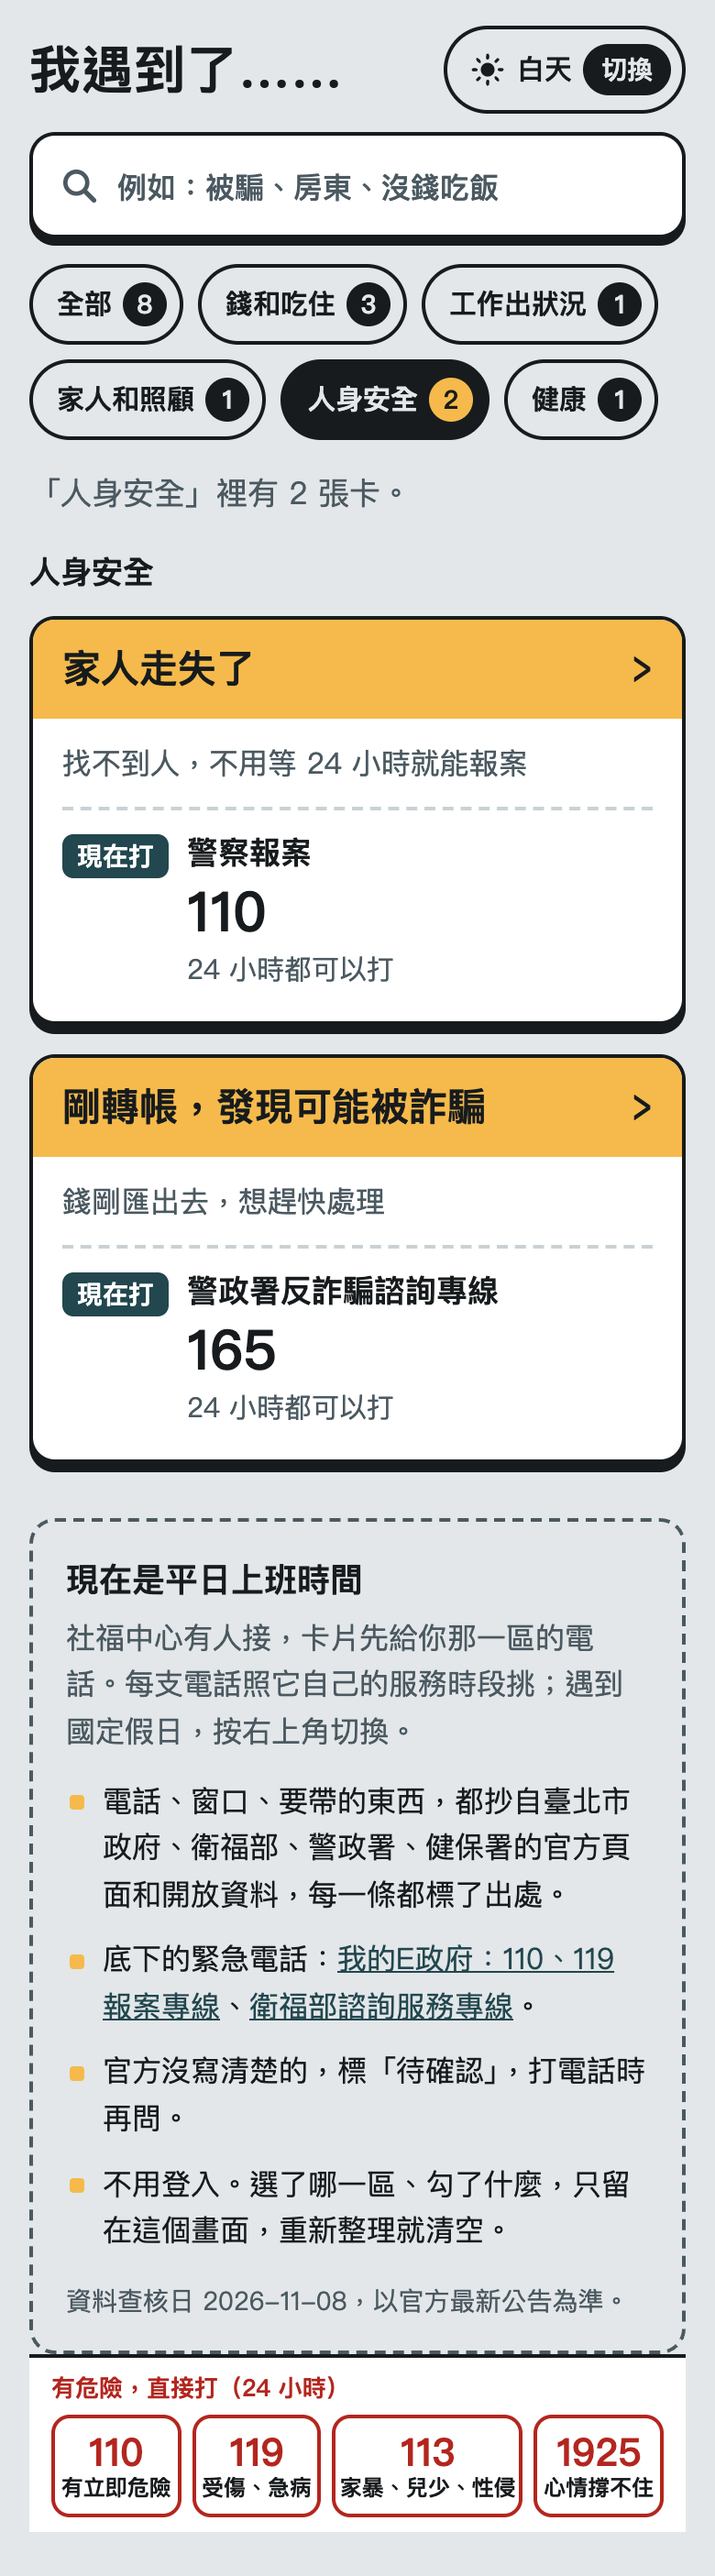
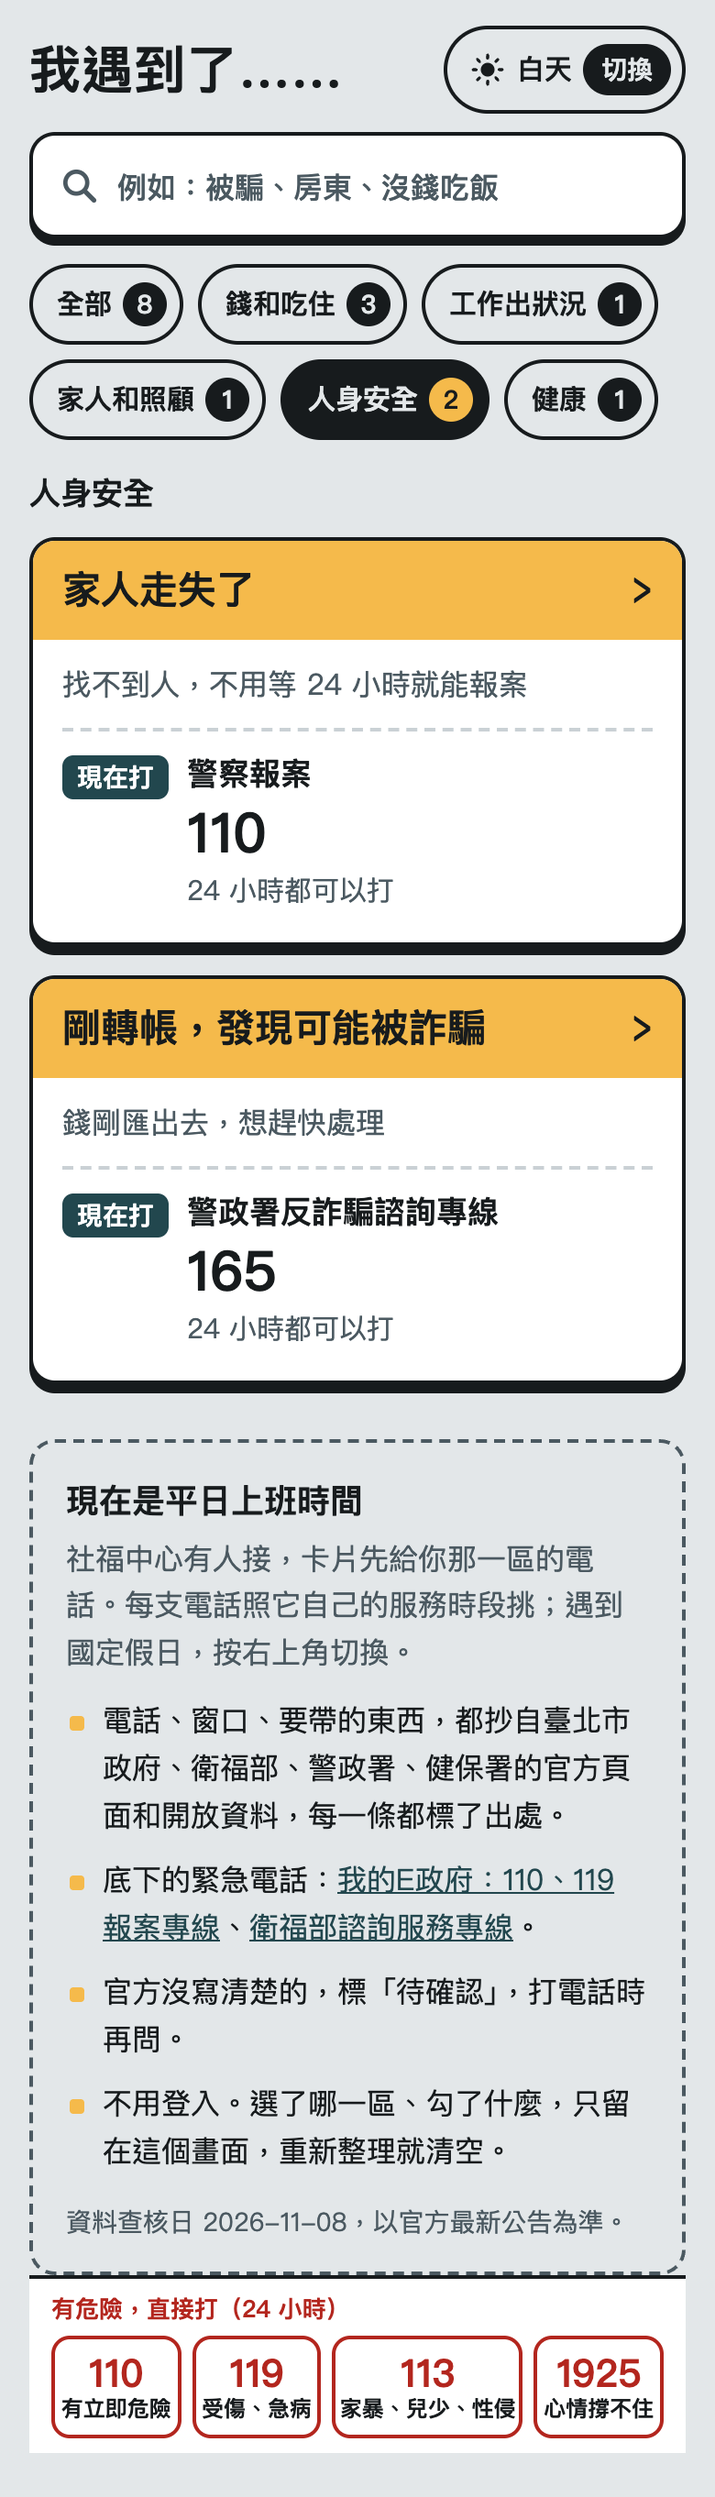
fix(situation): 結果張數只給螢幕閱讀器，晚上改用一套深色卡面 token
- 畫面上不再寫「有 N 張卡符合…」，改放常駐的 sr-only aria-live 區；分類籤的數字保留
- 晚上：卡面深灰藍、黃色卡頭調暗成琥珀、撥號鍵淺藍綠配深字，搜尋框、分類籤、
  搜不到卡、警示框、情境卡、頁尾、緊急列都走同一套 token，沒有純白表面
- 新增 situation-night 測試，從 styles.css 算晚上每組文字對比（全部 ≥ 4.5:1）
- 中文組字時 Enter／Esc 不再觸發收鍵盤與清空（isComposing／keyCode 229）
- 急難救助關鍵字補「繳不起」「付不出」「付不起」
- 重拍晚上版截圖與白天搜尋截圖；白天首頁與原圖逐位元相同

Changed region(s): [[0.0308, 0.0, 0.9846, 0.9985], [0.9538, 0.5929, 0.9846, 0.7177], [0.9538, 0.8425, 0.9846, 0.9049]]

diff --git a/docs/prototypes/situation-entry/styles.css b/docs/prototypes/situation-entry/styles.css
@@ -1,5 +1,6 @@
 /* 行動卡（設計方向 B）: each situation is a physical-feeling card — safety-yellow band, huge number,
- * perforated parts. Night turns the desk dark and the band teal, so the period reads at a glance.
+ * perforated parts. Night is the same deck under a desk lamp: dark slate card stock on a darker desk,
+ * the yellow band dimmed to amber, the call button lit in light teal. No surface is pure white at night.
  * Base tokens from TownPass tp_colors.dart (grayscale / primary / secondary); night desk and urgent red are derived. */
 :root {
   --desk: #e3e7e9;          /* grayscale100 */
@@ -24,17 +25,62 @@
   --sos-bg: #ffffff;
   --closed: #8a5a12;        /* "不在服務時間" text on tint, 6.5:1 */
   --desk-link: #22474e;     /* links sitting on the desk (home footer, card foot) */
+  --on-go: #ffffff;         /* text on --go and --tick fills */
+  --urgent-text: #b3261e;   /* urgent red used as text or outline */
+  --pending-ink: #6b4a14;
+  --focus: #5ab4c5;
+  /* category chips */
+  --cat-bg: transparent;
+  --cat-edge: var(--on-desk);
+  --cat-ink: var(--on-desk);
+  --cat-count-bg: var(--on-desk);
+  --cat-count-ink: var(--desk);
+  --cat-on-bg: var(--on-desk);
+  --cat-on-ink: var(--desk);
+  --cat-on-count-bg: var(--band);
+  --cat-on-count-ink: var(--band-ink);
+  --cat-empty-ink: var(--on-desk-muted);
+  --cat-empty-style: dashed;
 }
+/* Night tokens. Contrast (WCAG): ink on paper 11.3:1, muted on paper 7.1:1, muted on tint 5.7:1,
+ * on-go on go 10.6:1, band-ink on band 7.6:1, urgent-text on paper 7.5:1 — checked in tests/situation-night.test.mjs. */
 :root[data-period="night"] {
   --desk: #13262b;
-  --on-desk: #ffffff;
-  --on-desk-muted: #b8c8ce;
+  --on-desk: #eef3f4;
+  --on-desk-muted: #b3c5cb;
+  --paper: #1f363d;         /* card stock: dark slate, a step above the desk */
+  --ink: #eef3f4;
+  --muted: #b3c5cb;
+  --rule: #3f5c64;
+  --tint: #2a454c;
   --edge: #050c0e;
-  --band: #2b6470;
-  --band-ink: #ffffff;
-  --band-sub: #d7eef2;
+  --band: #d6a443;          /* safety yellow under a lamp */
+  --band-ink: #171b1d;
+  --band-sub: #3a2d17;
+  --go: #8fd3de;            /* call button + links on the card */
+  --go-press: #5fa9b5;
+  --on-go: #0b1a1e;
+  --tick: #8fd3de;
+  --blank: #3d3520;
+  --blank-edge: #d6a443;
+  --urgent-soft: #3d2423;
+  --urgent-text: #ffb4ab;
+  --closed: #f2c57c;
+  --pending-ink: #f2d6a2;
   --sos-bg: #0b1a1e;
   --desk-link: #9fdbe6;     /* 10:1 on the night desk */
+  --focus: #6aa8b3;         /* focus ring: 5.9:1 on desk, 4.8:1 on paper, not a glow */
+  --cat-bg: var(--paper);
+  --cat-edge: var(--rule);
+  --cat-ink: var(--ink);
+  --cat-count-bg: var(--tint);
+  --cat-count-ink: var(--ink);
+  --cat-on-bg: var(--band);
+  --cat-on-ink: var(--band-ink);
+  --cat-on-count-bg: var(--band-ink);
+  --cat-on-count-ink: var(--band);
+  --cat-empty-ink: var(--muted);
+  --cat-empty-style: solid;
 }
 
 * { box-sizing: border-box; }
@@ -51,7 +97,11 @@ body {
 .app { max-width: 480px; margin: 0 auto; padding: 8px 16px calc(140px + env(safe-area-inset-bottom)); }
 button { font: inherit; color: inherit; }
 a { color: var(--go); }
-:focus-visible { outline: 3px solid #5ab4c5; outline-offset: 2px; }
+:focus-visible { outline: 3px solid var(--focus); outline-offset: 2px; }
+.sr-only {
+  position: absolute; width: 1px; height: 1px; margin: -1px; padding: 0; overflow: hidden;
+  clip: rect(0 0 0 0); clip-path: inset(50%); white-space: nowrap; border: 0;
+}
 
 /* top bar */
 .top { display: flex; align-items: center; justify-content: space-between; gap: 12px; min-height: 60px; color: var(--on-desk); }
@@ -79,7 +129,7 @@ a { color: var(--go); }
   box-shadow: 0 4px 0 var(--edge); cursor: text;
 }
 .search-field svg { flex: none; color: var(--muted); }
-.search-field:focus-within { outline: 3px solid #5ab4c5; outline-offset: 2px; }
+.search-field:focus-within { outline: 3px solid var(--focus); outline-offset: 2px; }
 .search-field:focus-within svg { color: var(--ink); }
 .search input {
   flex: 1; min-width: 0; height: 54px; padding: 0; border: 0; background: transparent; color: var(--ink);
@@ -99,17 +149,17 @@ a { color: var(--go); }
 .cats { display: flex; flex-wrap: wrap; gap: 8px; margin: 0 0 16px; }
 .cat {
   flex: none; display: inline-flex; align-items: center; gap: 6px; min-height: 44px; padding: 0 7px 0 13px; white-space: nowrap;
-  border: 2px solid var(--on-desk); border-radius: 999px; background: transparent; color: var(--on-desk);
+  border: 2px solid var(--cat-edge); border-radius: 999px; background: var(--cat-bg); color: var(--cat-ink);
   font-size: 15px; font-weight: 700; cursor: pointer;
 }
 .cat-count {
   display: inline-grid; place-items: center; min-width: 24px; height: 24px; padding: 0 6px; border-radius: 999px;
-  background: var(--on-desk); color: var(--desk); font-size: 14px; font-variant-numeric: tabular-nums;
+  background: var(--cat-count-bg); color: var(--cat-count-ink); font-size: 14px; font-variant-numeric: tabular-nums;
 }
-.cat.is-on { background: var(--on-desk); color: var(--desk); }
-.cat.is-on .cat-count { background: var(--band); color: var(--band-ink); }
-.cat.is-empty:not(.is-on) { border-style: dashed; color: var(--on-desk-muted); border-color: var(--on-desk-muted); }
-.cat.is-empty:not(.is-on) .cat-count { background: transparent; color: var(--on-desk-muted); }
+.cat.is-on { background: var(--cat-on-bg); border-color: var(--cat-on-bg); color: var(--cat-on-ink); }
+.cat.is-on .cat-count { background: var(--cat-on-count-bg); color: var(--cat-on-count-ink); }
+.cat.is-empty:not(.is-on) { border-style: var(--cat-empty-style); color: var(--cat-empty-ink); border-color: var(--cat-empty-ink); }
+.cat.is-empty:not(.is-on) .cat-count { background: transparent; color: var(--cat-empty-ink); }
 
 /* home: nothing matched — a next step, not a dead end */
 .nomatch {
@@ -121,7 +171,7 @@ a { color: var(--go); }
 .nomatch-body { margin: 6px 0 0; font-size: 17px; }
 .nomatch .dial { margin-top: 14px; }
 .nomatch-sos {
-  margin: 16px 0 0; padding: 10px 12px; border-left: 4px solid var(--urgent); border-radius: 0 8px 8px 0;
+  margin: 16px 0 0; padding: 10px 12px; border-left: 4px solid var(--urgent-text); border-radius: 0 8px 8px 0;
   background: var(--urgent-soft); font-size: 16px; font-weight: 700;
 }
 .nomatch-more { margin: 14px 0 0; font-size: 16px; color: var(--muted); }
@@ -157,7 +207,7 @@ a { color: var(--go); }
 }
 .mini-label {
   grid-row: span 2; align-self: start; margin-top: 3px; padding: 1px 8px; border-radius: 6px;
-  background: var(--go); color: #fff; font-size: 14px; font-weight: 700;
+  background: var(--go); color: var(--on-go); font-size: 14px; font-weight: 700;
 }
 .mini-who { font-size: 17px; font-weight: 700; }
 .mini-number { font-size: 30px; font-weight: 800; line-height: 1.2; font-variant-numeric: tabular-nums; letter-spacing: 0.01em; }
@@ -168,12 +218,11 @@ a { color: var(--go); }
 .mini-hours.is-closed { color: var(--closed); font-weight: 700; }
 
 /* reserved: urgent cards put an emergency number first (no content yet) */
-.group.is-urgent .group-title { color: var(--urgent); }
-:root[data-period="night"] .group.is-urgent .group-title { color: #ffb4ab; }
+.group.is-urgent .group-title { color: var(--urgent-text); }
 .is-urgent .mini-band, .card.is-urgent .band { background: var(--urgent); color: #fff; }
 .card.is-urgent .band-sub { color: #ffe9e6; }
-.is-urgent .mini-label { background: var(--urgent); }
-.mini-label.is-closed { background: var(--closed); }
+.is-urgent .mini-label { background: var(--urgent); color: #fff; }
+.mini-label.is-closed { background: #8a5a12; color: #fff; }
 
 /* home: how this page works */
 .trust {
@@ -187,7 +236,6 @@ a { color: var(--go); }
 .trust-list li::before {
   content: ""; position: absolute; left: 2px; top: 0.6em; width: 8px; height: 8px; border-radius: 2px; background: var(--band);
 }
-:root[data-period="night"] .trust-list li::before { background: #5ab4c5; }
 .trust a, .foot a { color: var(--desk-link); }
 .trust-date { margin: 14px 0 0; font-size: 14px; color: var(--on-desk-muted); }
 
@@ -227,7 +275,7 @@ a { color: var(--go); }
 .hours.is-closed { padding: 6px 10px; border-radius: 8px; background: var(--blank); color: var(--closed); }
 .dial {
   display: flex; align-items: center; justify-content: center; gap: 10px; min-height: 64px; margin-top: 14px;
-  border-radius: 14px; background: var(--go); color: #fff; font-size: 21px; font-weight: 800; text-decoration: none;
+  border-radius: 14px; background: var(--go); color: var(--on-go); font-size: 21px; font-weight: 800; text-decoration: none;
   box-shadow: 0 4px 0 var(--go-press);
 }
 .dial:active { background: var(--go-press); transform: translateY(2px); box-shadow: 0 2px 0 var(--go-press); }
@@ -242,7 +290,7 @@ a { color: var(--go); }
   min-height: 54px; border: 2px solid var(--ink); border-radius: 10px; background: var(--paper);
   font-size: 19px; font-weight: 700; cursor: pointer; box-shadow: 0 3px 0 var(--ink);
 }
-.chip:active { background: #f5ba4b; transform: translateY(2px); box-shadow: 0 1px 0 var(--ink); }
+.chip:active { background: var(--band); color: var(--band-ink); transform: translateY(2px); box-shadow: 0 1px 0 var(--ink); }
 
 .script { margin: 0; font-size: 21px; line-height: 1.95; font-weight: 500; }
 .script-src { display: flex; align-items: center; justify-content: space-between; gap: 12px; margin: 6px 0 0; font-size: 15px; color: var(--muted); }
@@ -261,14 +309,14 @@ a { color: var(--go); }
   display: grid; place-items: center; background: var(--paper);
 }
 .check input:checked + .box { background: var(--tick); border-color: var(--tick); }
-.check input:checked + .box::after { content: ""; width: 8px; height: 14px; margin-top: -3px; border: solid #fff; border-width: 0 3px 3px 0; transform: rotate(45deg); }
+.check input:checked + .box::after { content: ""; width: 8px; height: 14px; margin-top: -3px; border: solid var(--on-go); border-width: 0 3px 3px 0; transform: rotate(45deg); }
 .check input:checked ~ .check-text { color: var(--tick); }
-.check input:focus-visible + .box { outline: 3px solid #5ab4c5; outline-offset: 2px; }
+.check input:focus-visible + .box { outline: 3px solid var(--focus); outline-offset: 2px; }
 .check-text { font-size: 17px; }
 .checks .ref { margin-top: 2px; margin-right: -6px; }
 
 .know-list { margin: 0; padding: 0; list-style: none; display: grid; gap: 10px; font-size: 17px; }
-.know-list li { padding-left: 14px; border-left: 4px solid #f5ba4b; }
+.know-list li { padding-left: 14px; border-left: 4px solid var(--band); }
 
 /* text + its one source button side by side; the button keeps its own 44px column */
 .with-ref { display: flex; align-items: flex-start; gap: 8px; }
@@ -279,7 +327,7 @@ a { color: var(--go); }
 
 .pending {
   margin: 0 2px; padding: 0 5px; border: 1.5px solid var(--blank-edge); border-radius: 5px;
-  background: var(--blank); color: #6b4a14; font-weight: 800; white-space: nowrap;
+  background: var(--blank); color: var(--pending-ink); font-weight: 800; white-space: nowrap;
 }
 
 /* below the card: plain rows */
@@ -331,19 +379,16 @@ a { color: var(--go); }
   padding: 6px 12px calc(8px + env(safe-area-inset-bottom));
   background: var(--sos-bg); border-top: 2px solid var(--edge);
 }
-.sos-head { max-width: 456px; margin: 0 auto 4px; font-size: 13px; font-weight: 700; color: var(--urgent); }
-:root[data-period="night"] .sos-head { color: #ffb4ab; }
+.sos-head { max-width: 456px; margin: 0 auto 4px; font-size: 13px; font-weight: 700; color: var(--urgent-text); }
 .sos-row { display: grid; grid-template-columns: 1fr 1fr 1.4fr 1fr; gap: 6px; max-width: 456px; margin: 0 auto; }
 .sos-call {
   display: grid; justify-items: center; align-content: center; min-height: 56px; padding: 4px 2px;
-  border: 2px solid var(--urgent); border-radius: 10px; background: var(--paper); color: var(--urgent);
+  border: 2px solid var(--urgent-text); border-radius: 10px; background: var(--paper); color: var(--urgent-text);
   text-decoration: none; line-height: 1.15; text-align: center;
 }
 .sos-call b { font-size: 21px; font-weight: 800; font-variant-numeric: tabular-nums; }
 .sos-call span { font-size: 12px; font-weight: 700; color: var(--ink); white-space: nowrap; }
 .sos-call:active { background: var(--urgent-soft); }
-:root[data-period="night"] .sos-call { border-color: #ffb4ab; background: #13262b; color: #ffb4ab; }
-:root[data-period="night"] .sos-call span { color: #ffffff; }
 
 .call-status {
   position: fixed; left: 16px; right: 16px; bottom: calc(100px + env(safe-area-inset-bottom)); z-index: 6; margin: 0 auto; max-width: 448px;

diff --git a/docs/prototypes/situation-entry/app.js b/docs/prototypes/situation-entry/app.js
@@ -138,14 +138,26 @@
       + data.categories.map((c) => chip(c.id, c.title, pool.filter((s) => s.category === c.id).length)).join('');
   }
 
-  function filterStatus(data, filter, shown) {
-    if (!words(filter.query).length && inCategory({}, filter.category)) {
-      return '挑最接近你現在狀況的那張卡。每張都寫好現在打給誰、開口怎麼說、要準備什麼。';
-    }
-    if (!shown) return '';
+  const isFiltered = (filter) => words(filter.query).length > 0 || !inCategory({}, filter.category);
+
+  /* How many cards are showing, for screen readers only (the chips already show counts on screen).
+   * Lives in one persistent sr-only live region so it is announced after every keystroke. */
+  function resultCountText(data, filter) {
+    if (!isFiltered(filter)) return '';
+    const shown = filteredGroups(data, filter).reduce((n, g) => n + g.situations.length, 0);
     const where = filter.category && filter.category !== ALL
       ? `「${data.categories.find((c) => c.id === filter.category).title}」裡` : '';
-    return words(filter.query).length ? `${where}有 ${shown} 張卡符合「${filter.query.trim()}」。` : `${where}有 ${shown} 張卡。`;
+    if (!words(filter.query).length) return `${where}有 ${shown} 張卡。`;
+    return shown ? `${where}有 ${shown} 張卡符合「${filter.query.trim()}」。` : `沒有卡片符合「${filter.query.trim()}」，可以先打 1999 市民熱線。`;
+  }
+
+  /* Enter closes the phone keyboard, Esc clears the search — but never while an IME is composing
+   * (注音／倉頡 use Enter to commit a word and Esc to cancel it). */
+  function searchKeyAction(event, query) {
+    if (event.isComposing || event.keyCode === 229) return null;
+    if (event.key === 'Enter') return 'close';
+    if (event.key === 'Escape' && query) return 'clear';
+    return null;
   }
 
   /* Nothing matched: point to a next step instead of a dead end. 1999 is the city's 24-hour hotline
@@ -176,7 +188,9 @@
     const deck = list.map((g) => `<section class="group${g.urgent ? ' is-urgent' : ''}" aria-labelledby="group-${esc(g.id)}">`
       + `<h2 class="group-title" id="group-${esc(g.id)}">${esc(g.title)}</h2>`
       + `<div class="deck">${g.situations.map((s) => homeCard(data, s, state)).join('')}</div></section>`).join('');
-    return `<p class="intro" role="status">${esc(filterStatus(data, filter, shown))}</p>`
+    const intro = isFiltered(filter) ? ''
+      : '<p class="intro">挑最接近你現在狀況的那張卡。每張都寫好現在打給誰、開口怎麼說、要準備什麼。</p>';
+    return intro
       + (shown ? `<nav class="groups" aria-label="選擇情境">${deck}</nav>` : noMatch(data, filter));
   }
 
@@ -187,7 +201,8 @@
     return `<header class="top"><h1>我遇到了……</h1>${periodTag(state)}</header>`
       + searchBox(filter)
       + `<div class="cats" role="group" aria-label="依分類篩選" data-cats>${categoryChips(data, filter)}</div>`
-      + `<div class="results" data-results aria-live="off">${renderResults(data, state, filter)}</div>`
+      + `<p class="sr-only" role="status" aria-live="polite" data-result-count>${esc(resultCountText(data, filter))}</p>`
+      + `<div class="results" data-results>${renderResults(data, state, filter)}</div>`
       + `<section class="trust" aria-label="這頁怎麼做的">`
       + `<p class="trust-title">${night ? '現在是晚上或假日' : '現在是平日上班時間'}</p>`
       + `<p class="trust-lead">${night
@@ -301,7 +316,7 @@
     return s ? `${s.title}｜我遇到了……` : '我遇到了……';
   }
 
-  root.SituationApp = Object.freeze({ renderHome, renderResults, renderCard, render, nowCall, groups, filteredGroups, matches, titleOf, emergencyBar });
+  root.SituationApp = Object.freeze({ renderHome, renderResults, renderCard, render, nowCall, groups, filteredGroups, matches, titleOf, emergencyBar, resultCountText, searchKeyAction });
 
   if (root.document) {
     root.document.addEventListener('DOMContentLoaded', () => {
@@ -319,6 +334,8 @@
         if (!results || !cats) return;
         cats.innerHTML = categoryChips(data, filter);
         results.innerHTML = renderResults(data, shownState, filter);
+        const count = app.querySelector('[data-result-count]');
+        if (count) count.textContent = resultCountText(data, filter);
         const clear = app.querySelector('[data-clear-search]');
         if (clear) clear.hidden = !filter.query;
         const focus = focusSelector && app.querySelector(focusSelector);
@@ -338,8 +355,10 @@
       });
       app.addEventListener('keydown', (event) => {
         if (!event.target.matches('[data-search]')) return;
-        if (event.key === 'Escape' && filter.query) { event.preventDefault(); clearSearch(); }
-        if (event.key === 'Enter') { event.preventDefault(); event.target.blur(); } // closes the phone keyboard
+        const action = searchKeyAction(event, filter.query);
+        if (action) event.preventDefault();
+        if (action === 'clear') clearSearch();
+        if (action === 'close') event.target.blur(); // closes the phone keyboard
       });
       app.addEventListener('click', (event) => {
         if (event.target.closest('[data-clear-search]')) { clearSearch(); return; }

diff --git a/docs/prototypes/situation-entry/situations-data.js b/docs/prototypes/situation-entry/situations-data.js
@@ -392,6 +392,9 @@ window.SITUATION_DATA = {
       "keywords": [
         "沒錢",
         "繳不出",
+        "繳不起",
+        "付不出",
+        "付不起",
         "房租",
         "水電",
         "水費",
